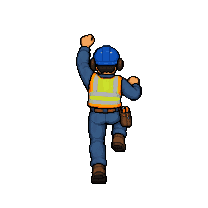
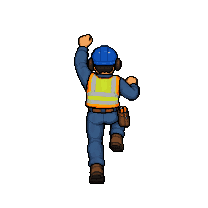
fix: brand startup screens and align climbing animation
Use the game title for startup and square app icons while retaining loading errors.
Align climbing artwork to a stable helmet anchor without changing movement physics.

Changed region(s): [[0.3462, 0.1442, 0.6923, 0.8942]]

diff --git a/web/shell.html b/web/shell.html
@@ -12,10 +12,7 @@ body { color: white; background-color: black; overflow: hidden; touch-action: no
 #status, #status-splash, #status-progress { position: absolute; left: 0; right: 0; }
 #status, #status-splash { top: 0; bottom: 0; }
 #status { background-color: #242424; display: flex; flex-direction: column; justify-content: center; align-items: center; visibility: hidden; }
-#status-splash { max-height: 100%; max-width: 100%; margin: auto; }
-#status-splash.show-image--false { display: none; }
-#status-splash.fullsize--true { height: 100%; width: 100%; object-fit: contain; }
-#status-splash.use-filter--false { image-rendering: pixelated; }
+#status-splash { max-height: 100%; max-width: 90%; margin: auto; image-rendering: pixelated; }
 #status-progress, #status-notice { display: none; }
 #status-progress { bottom: 10%; width: 50%; margin: 0 auto; }
 #status-notice { background-color: #5b3943; border-radius: .5rem; border: 1px solid #9b3943; color: #e0e0e0; font-family: 'Noto Sans', 'Droid Sans', Arial, sans-serif; line-height: 1.3; margin: 0 2rem; overflow: hidden; padding: 1rem; text-align: center; z-index: 1; }
@@ -27,7 +24,7 @@ $GODOT_HEAD_INCLUDE
 <canvas id="canvas">Your browser does not support the canvas tag.</canvas>
 <noscript>Your browser does not support JavaScript.</noscript>
 <div id="status">
-<img id="status-splash" class="show-image--$GODOT_SPLASH_SHOW_IMAGE fullsize--$GODOT_SPLASH_FULLSIZE use-filter--$GODOT_SPLASH_USE_FILTER" src="$GODOT_SPLASH" alt="">
+<img id="status-splash" src="$GODOT_SPLASH" alt="Midcreek Hero">
 <progress id="status-progress"></progress>
 <div id="status-notice"></div>
 </div>

diff --git a/tests/test_asset_pipeline.py b/tests/test_asset_pipeline.py
@@ -15,6 +15,14 @@ ROOT = Path(__file__).resolve().parents[1]
 
 
 class AssetPipelineTest(unittest.TestCase):
+    def test_app_icon_preserves_the_title_artwork_without_stretching(self):
+        with Image.open(ROOT / "art/cel-shift/ui/frames/title/00.png") as title:
+            with Image.open(ROOT / "art/cel-shift/ui/icon.png") as icon:
+                self.assertEqual(icon.size, (480, 480))
+                self.assertEqual(icon.crop((0, 180, 480, 300)).tobytes(), title.tobytes())
+                self.assertIsNone(icon.crop((0, 0, 480, 180)).getbbox())
+                self.assertIsNone(icon.crop((0, 300, 480, 480)).getbbox())
+
     def test_export_includes_runtime_manifests(self):
         presets = configparser.ConfigParser()
         presets.read(ROOT / "export_presets.cfg")
@@ -114,6 +122,69 @@ class AssetPipelineTest(unittest.TestCase):
                 self.assertEqual(len(frames), 6)
                 self.assertTrue(all(abs(o) >= 3 for o in offsets), "pouch is visible beside the body")
                 self.assertTrue(all(o > 0 for o in offsets), "pouch stays on the right hip, image right in the back view")
+
+    def test_climb_hat_stays_over_the_ladder_axis(self):
+        for variant in animation_assets.VARIANTS:
+            for path in sorted((animation_assets.ART / "frames" / variant / "climb").glob("*.png")):
+                with Image.open(path) as frame:
+                    blue = [
+                        x for y in range(85) for x in range(frame.width)
+                        if (lambda p: p[3] and p[2] - p[0] > 80 and p[2] - p[1] > 60)(
+                            frame.getpixel((x, y))
+                        )
+                    ]
+                with self.subTest(variant=variant, frame=path.name):
+                    self.assertTrue(blue, "the blue hard hat is visible")
+                    center = (min(blue) + max(blue)) / 2
+                    self.assertLessEqual(abs(center - 104), 3, "climb helmet bounds stay over the ladder axis")
+
+    def test_climb_alignment_preserves_pixels_and_baseline(self):
+        frame = Image.new("RGBA", (208, 208))
+        frame.paste((15, 80, 180, 255), (132, 35, 149, 51))
+        frame.paste((180, 200, 20, 255), (128, 52, 155, 125))
+        frame.paste((60, 40, 20, 255), (134, 125, 150, 184))
+        aligned = animation_assets.align_climb(frame)
+        self.assertEqual(aligned.getpixel((104, 40)), (15, 80, 180, 255))
+        self.assertEqual(aligned.getbbox()[3], 184)
+        self.assertEqual(sorted(frame.getcolors(208 * 208)), sorted(aligned.getcolors(208 * 208)))
+        self.assertEqual(aligned.tobytes(), animation_assets.align_climb(aligned).tobytes())
+
+    def test_climb_alignment_rejects_missing_anchor_and_clipping(self):
+        with self.assertRaisesRegex(ValueError, "hard hat"):
+            animation_assets.align_climb(Image.new("RGBA", (208, 208)))
+        frame = Image.new("RGBA", (208, 208))
+        frame.paste((15, 80, 180, 255), (12, 35, 29, 51))
+        frame.putpixel((207, 120), (120, 120, 120, 255))
+        with self.assertRaisesRegex(ValueError, "clipping"):
+            animation_assets.align_climb(frame)
+
+    def test_climb_alignment_ignores_separate_blue_shoulders(self):
+        frame = Image.new("RGBA", (208, 208))
+        frame.paste((15, 80, 180, 255), (112, 35, 129, 51))
+        frame.paste((15, 80, 180, 255), (50, 70, 101, 84))
+        aligned = animation_assets.align_climb(frame)
+        self.assertEqual(aligned.getpixel((104, 40)), (15, 80, 180, 255))
+        self.assertEqual(aligned.getpixel((40, 75)), (15, 80, 180, 255))
+
+    def test_normalize_climb_aligns_authored_off_center_figures(self):
+        with tempfile.TemporaryDirectory() as directory:
+            art = Path(directory)
+            source = art / "generated/man-midcreek"
+            source.mkdir(parents=True)
+            sheet = Image.new("RGBA", (1536, 1024))
+            for index, center in enumerate((280, 300, 320, 240, 260, 220)):
+                x, y = index % 3 * 512, index // 3 * 512
+                sheet.paste((15, 80, 180, 255), (x + center - 20, y + 100, x + center + 20, y + 140))
+                sheet.paste((180, 200, 20, 255), (x + center - 30, y + 145, x + center + 30, y + 320))
+                sheet.paste((60, 40, 20, 255), (x + center - 20, y + 320, x + center + 20, y + 448))
+                sheet.paste((255, 255, 255, 255), (x + center, y + 160 + index * 12, x + center + 9, y + 169 + index * 12))
+            sheet.save(source / "climb.png")
+            with patch.object(animation_assets, "ART", art):
+                animation_assets.normalize("man-midcreek", "climb")
+            for path in sorted((art / "frames/man-midcreek/climb").glob("*.png")):
+                with self.subTest(frame=path.name), Image.open(path) as frame:
+                    self.assertEqual(frame.getpixel((104, 72)), (15, 80, 180, 255))
+                    self.assertEqual(frame.getbbox()[3], 184)
 
     def test_ponytail_guidance_is_woman_specific(self):
         for clip in animation_assets.CLIPS:

diff --git a/tools/animation_assets.py b/tools/animation_assets.py
@@ -159,6 +159,11 @@ def normalize(variant, clip):
         if bounds is None or position[1] + bounds[1] < 1 or position[1] + bounds[3] >= 208:
             raise ValueError(f"{source}: frame {index} cannot fit without clipping")
         frame.alpha_composite(scaled, position)
+        if clip == "climb":
+            try:
+                frame = align_climb(frame)
+            except ValueError as error:
+                raise ValueError(f"{source}: frame {index}: {error}") from error
         frames.append(frame)
     samples = [pixel[:3] for frame in frames for pixel in frame.getdata() if pixel[3]]
     palette_source = Image.new("RGB", (256, (len(samples) + 255) // 256), samples[0])
@@ -174,6 +179,47 @@ def normalize(variant, clip):
         hashes.append(hashlib.sha256(result.tobytes()).hexdigest())
     if len(set(hashes)) != count:
         raise ValueError(f"{source}: duplicate authored frames")
+    write_frames(variant, clip, results)
+    print(f"Normalized {variant}/{clip}: {count} distinct transparent frames")
+
+
+def align_climb(frame):
+    # The fixed blue hard hat anchors the ladder pose; raised arms change its full bounds.
+    blue = set()
+    for y in range(85):
+        for x in range(frame.width):
+            r, g, b, a = frame.getpixel((x, y))
+            if a and b > 110 and b > r * 2 and b - g > 60:
+                blue.add((x, y))
+    regions = []
+    while blue:
+        pending = [blue.pop()]
+        region = []
+        while pending:
+            x, y = pending.pop()
+            region.append((x, y))
+            for dx, dy in ((-1, 0), (1, 0), (0, -1), (0, 1)):
+                neighbor = (x + dx, y + dy)
+                if neighbor in blue:
+                    blue.remove(neighbor)
+                    pending.append(neighbor)
+        if len(region) >= 16:
+            regions.append(region)
+    if not regions:
+        raise ValueError("Climb frame has no visible blue hard hat alignment anchor")
+    region = min(regions, key=lambda points: min(y for _, y in points))
+    hat = [x for x, _ in region]
+    offset = 104 - sorted(hat)[len(hat) // 2]
+    left, _, right, _ = frame.getbbox()
+    if left + offset < 0 or right + offset > frame.width:
+        raise ValueError("Climb frame cannot align without clipping")
+    aligned = Image.new("RGBA", frame.size)
+    aligned.paste(frame, (offset, 0))
+    return aligned
+
+
+def write_frames(variant, clip, results):
+    _, columns, _ = configuration(variant, clip)
     output = ART / "frames" / variant / clip
     output.mkdir(parents=True, exist_ok=True)
     paths = []
@@ -196,7 +242,6 @@ def normalize(variant, clip):
         animated.append(background.resize((416, 416), Image.Resampling.NEAREST).convert("RGB"))
     animated[0].save(preview_dir / f"{clip}.gif", save_all=True, append_images=animated[1:],
                      duration=round(1000 / FPS[CLIPS.index(clip)]), loop=0)
-    print(f"Normalized {variant}/{clip}: {count} distinct transparent frames")
 
 
 def manifest():
